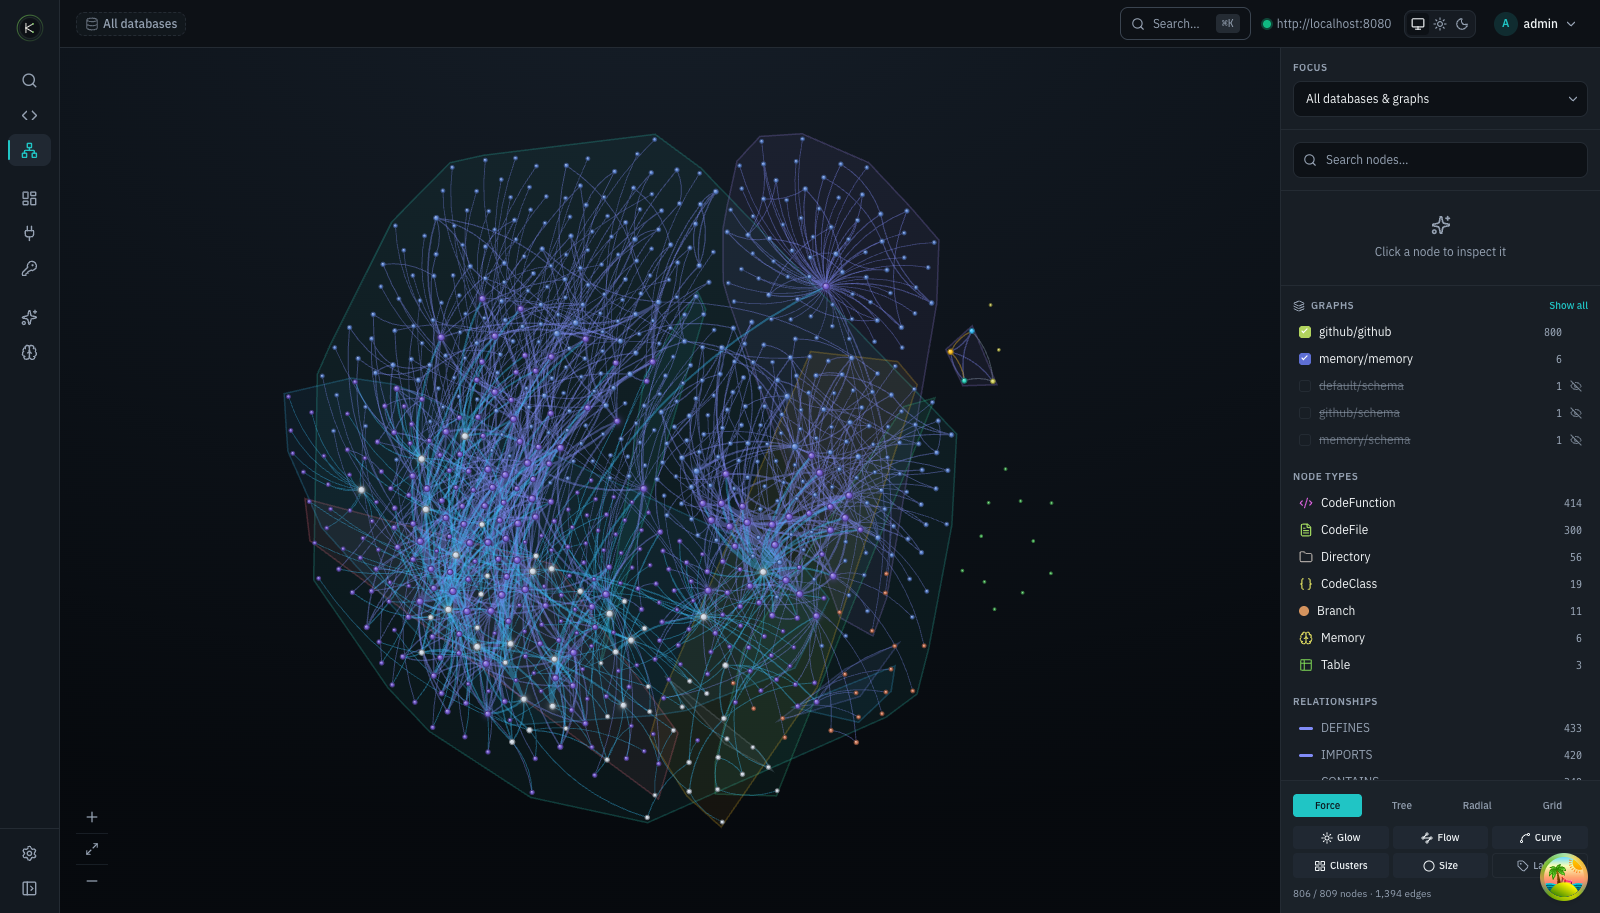
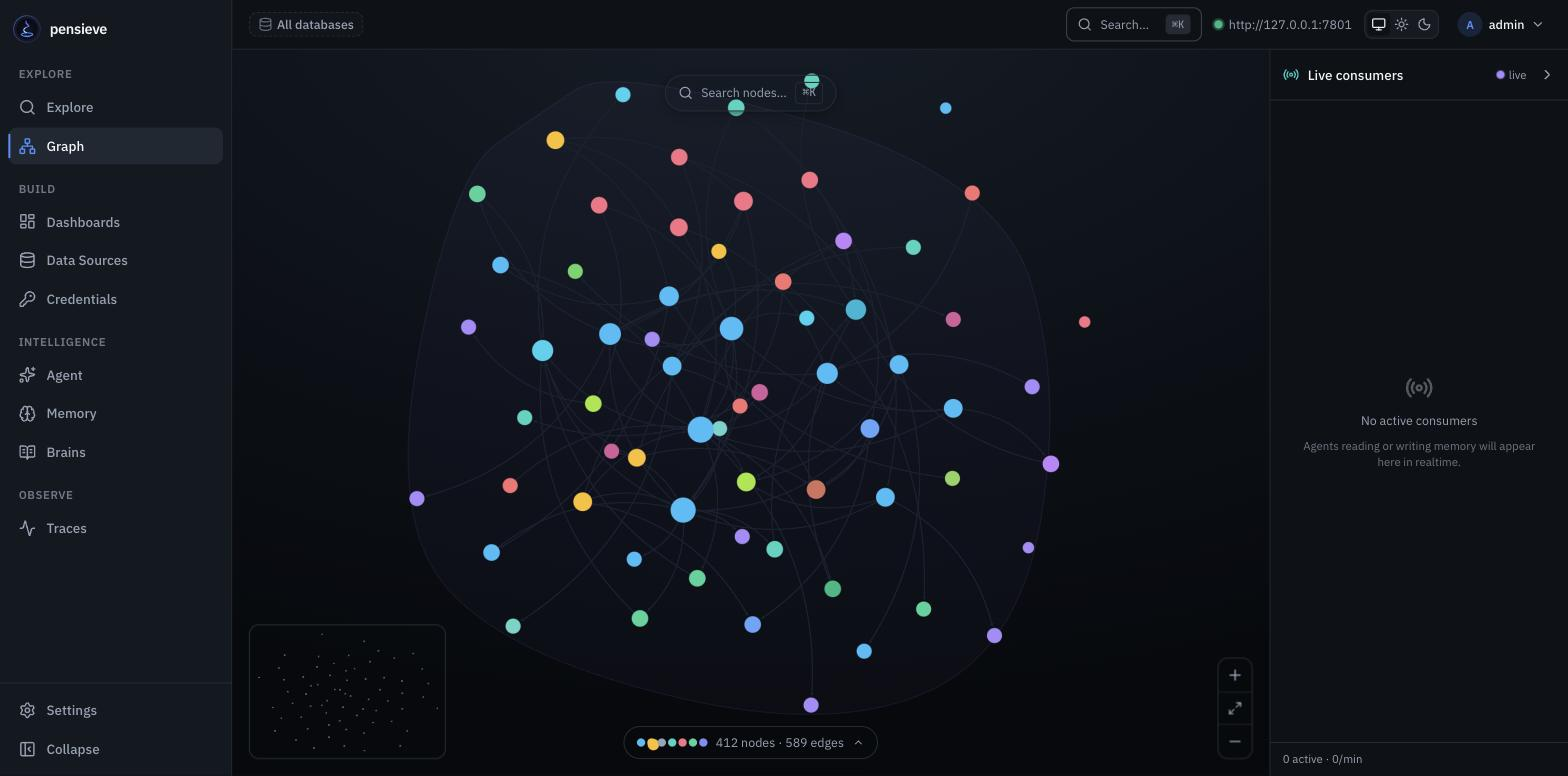
docs: recapture the graph screenshot on the rebranded UI
The README's graph visual was a GIF of the old kyma UI — old wordmark, old
green mark, and after the previous commit also the old teal accent. Replaced
with a fresh capture of the current build: 412 nodes / 589 edges, blue accent,
the pensieve mark in the sidebar.

Captured against a throwaway local instance, with two precautions worth
recording because the obvious way to do this leaks:

  * cc-sync force-disabled. Left on, `pensieve serve` ingests the developer's
    real Claude Code memories — 204 of them on the first attempt — and those
    would have gone straight into a public docs image.
  * HOME redirected to a scratch dir for the seeding CLI. config_dir() in
    crates/pensieve-cli/src/client.rs resolves from HOME, not PENSIEVE_HOME, so
    `pensieve connect` against the throwaway instance would otherwise rewrite
    the developer's real ~/.pensieve/config.json and repoint their CLI at it.

Data is synthetic: scripts/seed-demo-graph.py for the entity graph, plus this
repo's own code graph via `pensieve scrape` over two crates.

Also fixes that seeder, which could not run for anyone: it hardcoded
/Users/.../projects/agentcylabs/pensieve/target/debug/pensieve, a path that no
longer exists. It now resolves PENSIEVE_BIN, then the workspace target dirs,
then $PATH, and fails with an actionable message instead of a stack trace.

graph-tour.gif and graph-explorer-detail.png are removed rather than left
[…]

diff --git a/scripts/seed-demo-graph.py b/scripts/seed-demo-graph.py
@@ -3,9 +3,26 @@
 many tech-stack variants (k8s, aws, gcp, datadog, github, slack, postgres,
 redis, kafka, …), services/repos/people/tables/concepts, and durable memories,
 wired with realistic relationships."""
-import re, subprocess, sys
+import os, pathlib, re, shutil, subprocess, sys
 
[1 lines of base64/hex data omitted]
+# Resolve the binary rather than hardcoding one developer's absolute path:
+# the old literal pointed at a directory that no longer exists, so this
+# script could not run for anyone, including its author.
+def _find_binary() -> str:
+    if env := os.environ.get("PENSIEVE_BIN"):
+        return env
+    root = pathlib.Path(__file__).resolve().parent.parent
+    for candidate in ("target/debug/pensieve-cli", "target/release/pensieve-cli",
+                      "target/debug/pensieve", "target/release/pensieve"):
+        if (root / candidate).is_file():
+            return str(root / candidate)
+    if found := shutil.which("pensieve"):
+        return found
+    raise SystemExit(
+        "no pensieve binary found — build one (cargo build -p pensieve-cli) "
+        "or set PENSIEVE_BIN")
+
+PENSIEVE = _find_binary()
 NS = "memory/memory"
 ids = {}
 UUID = re.compile(r"[0-9a-f]{8}-[0-9a-f]{4}-[0-9a-f]{4}-[0-9a-f]{4}-[0-9a-f]{12}")

diff --git a/README.md b/README.md
@@ -154,7 +154,7 @@ Full design: **[Agentic Memory](https://shakedaskayo.github.io/pensieve/agent/me
 A WebGL canvas renders **every property graph from every database on one surface** — your
 repos and services *and* the memories and entities they link to.
 
-![The whole context graph at rest — 800+ nodes: the deterministic code graph from a connected repo, durable memories, and logical entities merged on one canvas with community hulls.](docs/images/graph-tour.gif)
+![The pensieve context graph — services, repos, infra, people and durable memories merged on one canvas, colour-coded by type, carrying real vendor brand marks, with community hulls and a minimap.](docs/images/graph-explorer.png)
 
 Nodes are colour-coded by type, sized by connectivity, and carry real vendor brand marks
 (GitHub, Datadog, Kubernetes, AWS, GCP, Postgres, Redis, Kafka, Slack, PagerDuty, …) plus
